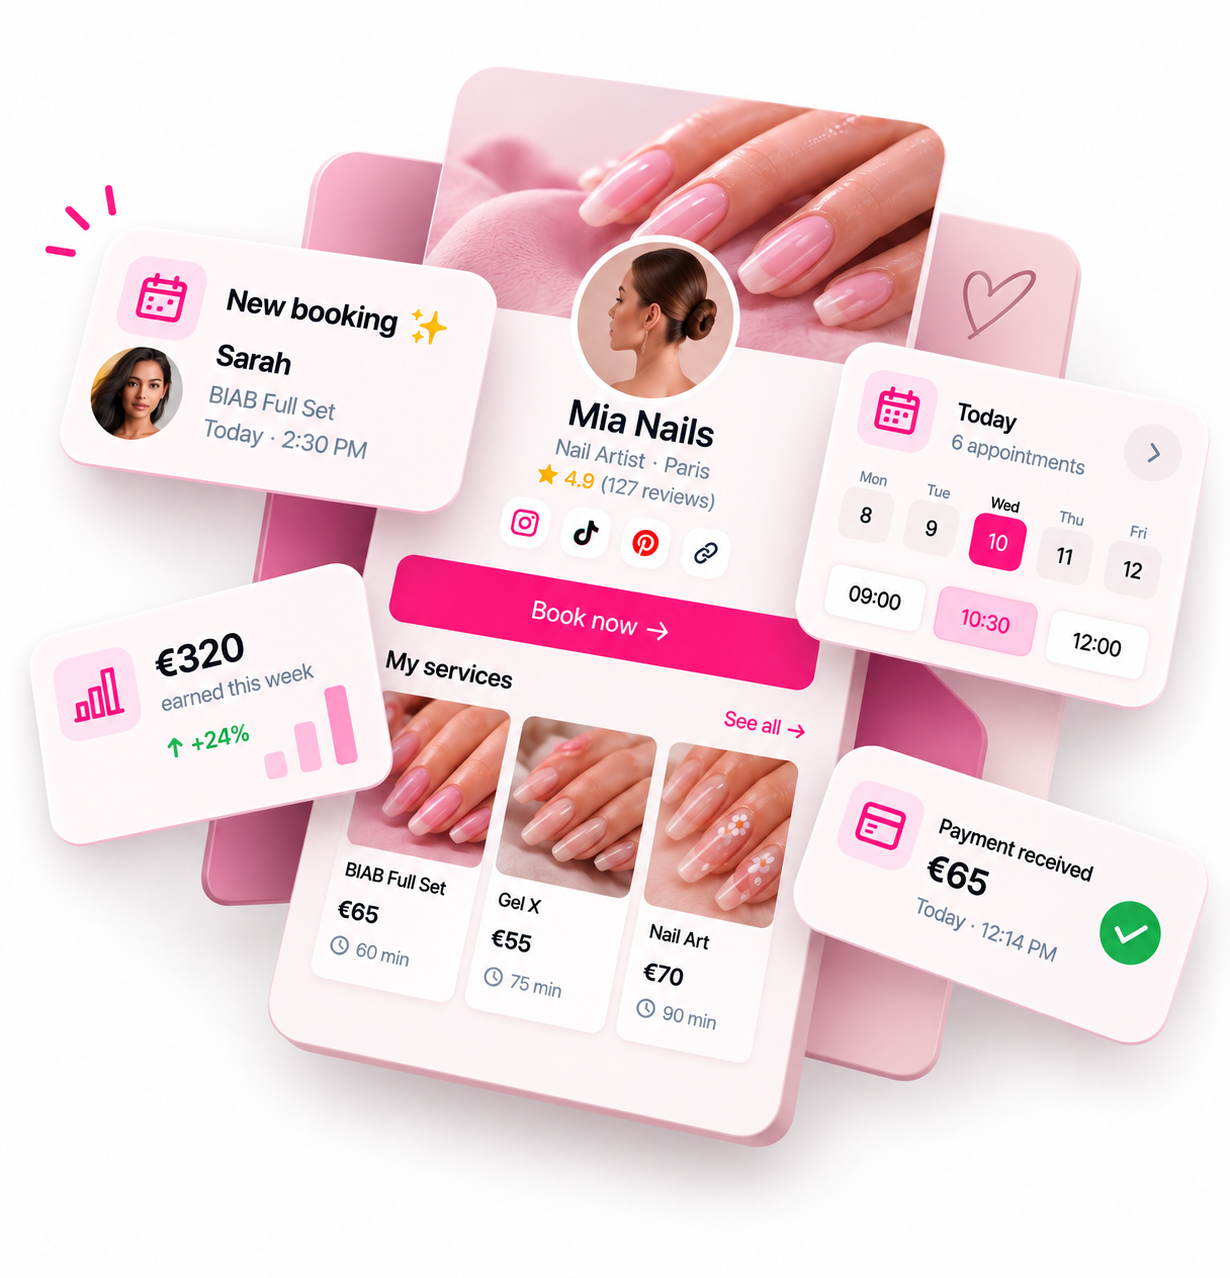
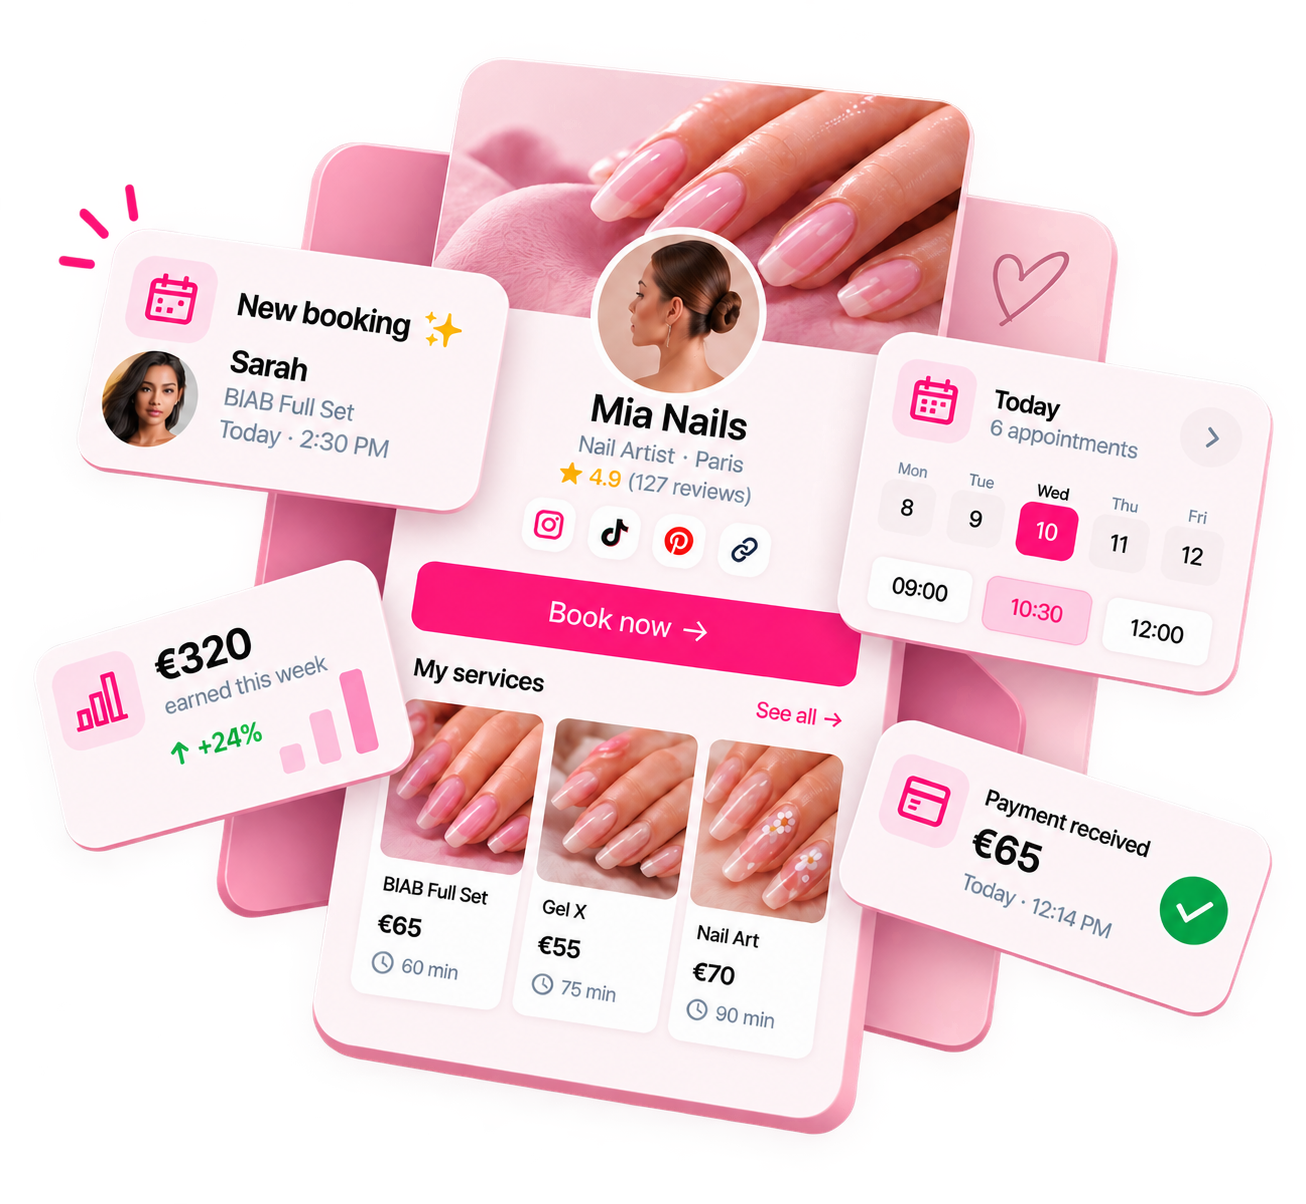
feat(hero): transparent mockup + soft pink radial gradient background
New hero-mockup.png is RGBA (transparent bg). Added radial-gradient
ellipse behind the mockup container so the blush shows through the
cutout areas — consistent on mobile and desktop.

diff --git a/src/pages/LandingPremium.tsx b/src/pages/LandingPremium.tsx
@@ -132,6 +132,9 @@ function Hero() {
         */}
         <motion.div
           className="mt-10 lg:mt-0 lg:flex-1 lg:flex lg:items-center lg:justify-center"
+          style={{
+            background: 'radial-gradient(ellipse 90% 80% at 58% 44%, #FDDDE9 0%, #FEF0F6 42%, #FFFFFF 72%)',
+          }}
           initial={{ opacity: 0, y: 24 }}
           animate={{ opacity: 1, y: 0 }}
           transition={{ duration: 0.55, delay: 0.2 }}
